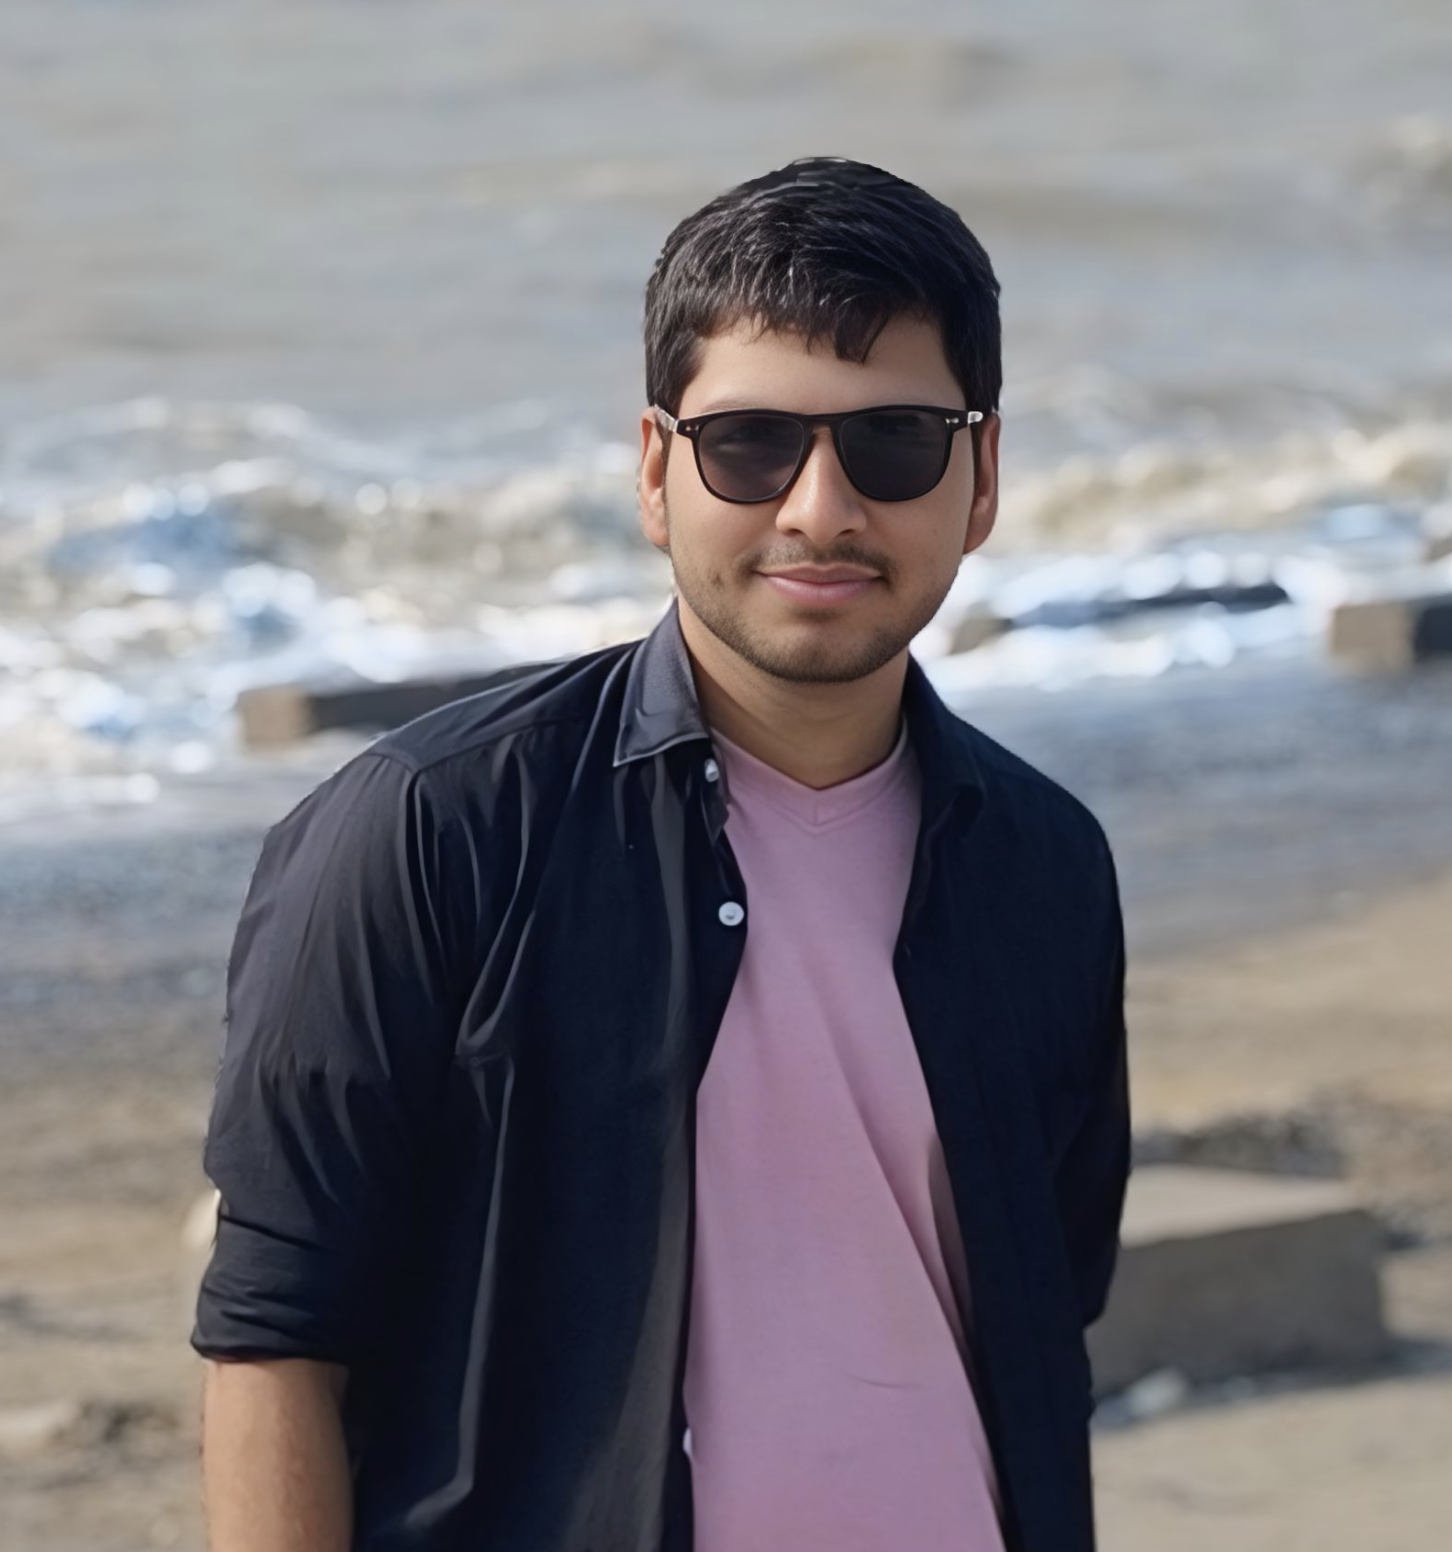
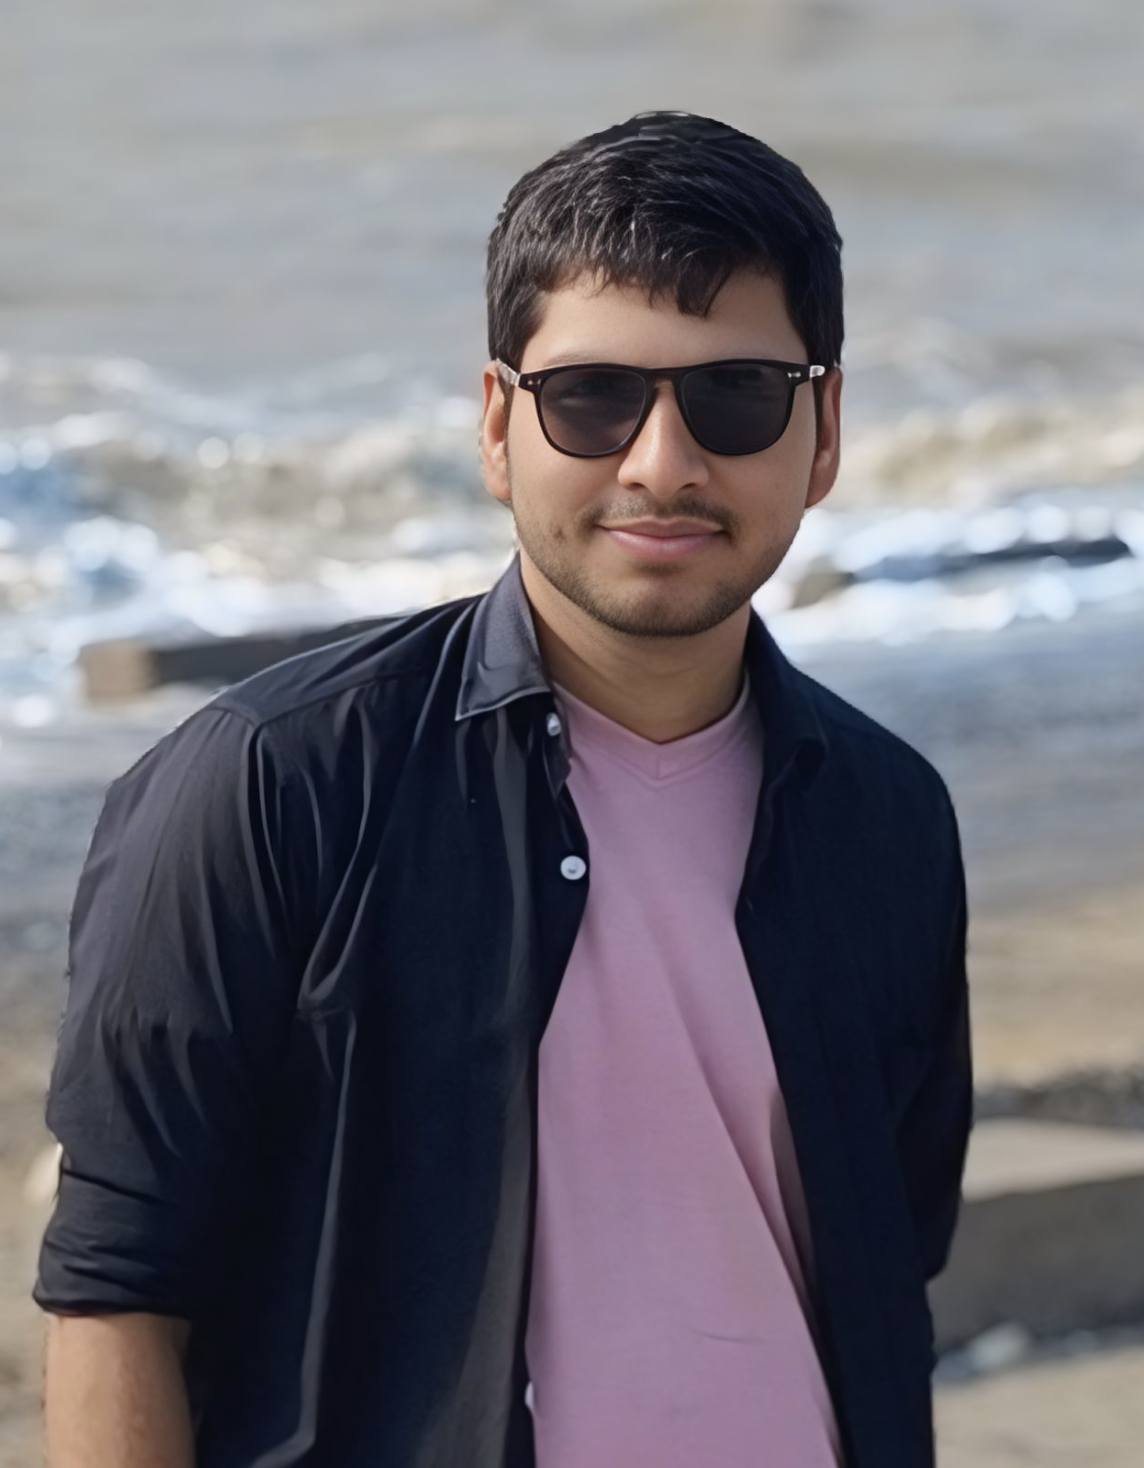
Team page 2025

diff --git a/team.php b/team.php
@@ -228,7 +228,7 @@
                         <div class="service-card">
                           <div class="card">
 
-                            <img class="card-img-top" src="img\team2025\nirmal1.png" height=300px; alt="Card image cap" style="object-position: left;">
+                            <img class="card-img-top" src="img\team2025\nirmal1.png" height=300px; alt="Card image cap"ls>
 
                             <div class="card-body">
                               <h6 class="x">Nirmal Patidar</h6>
